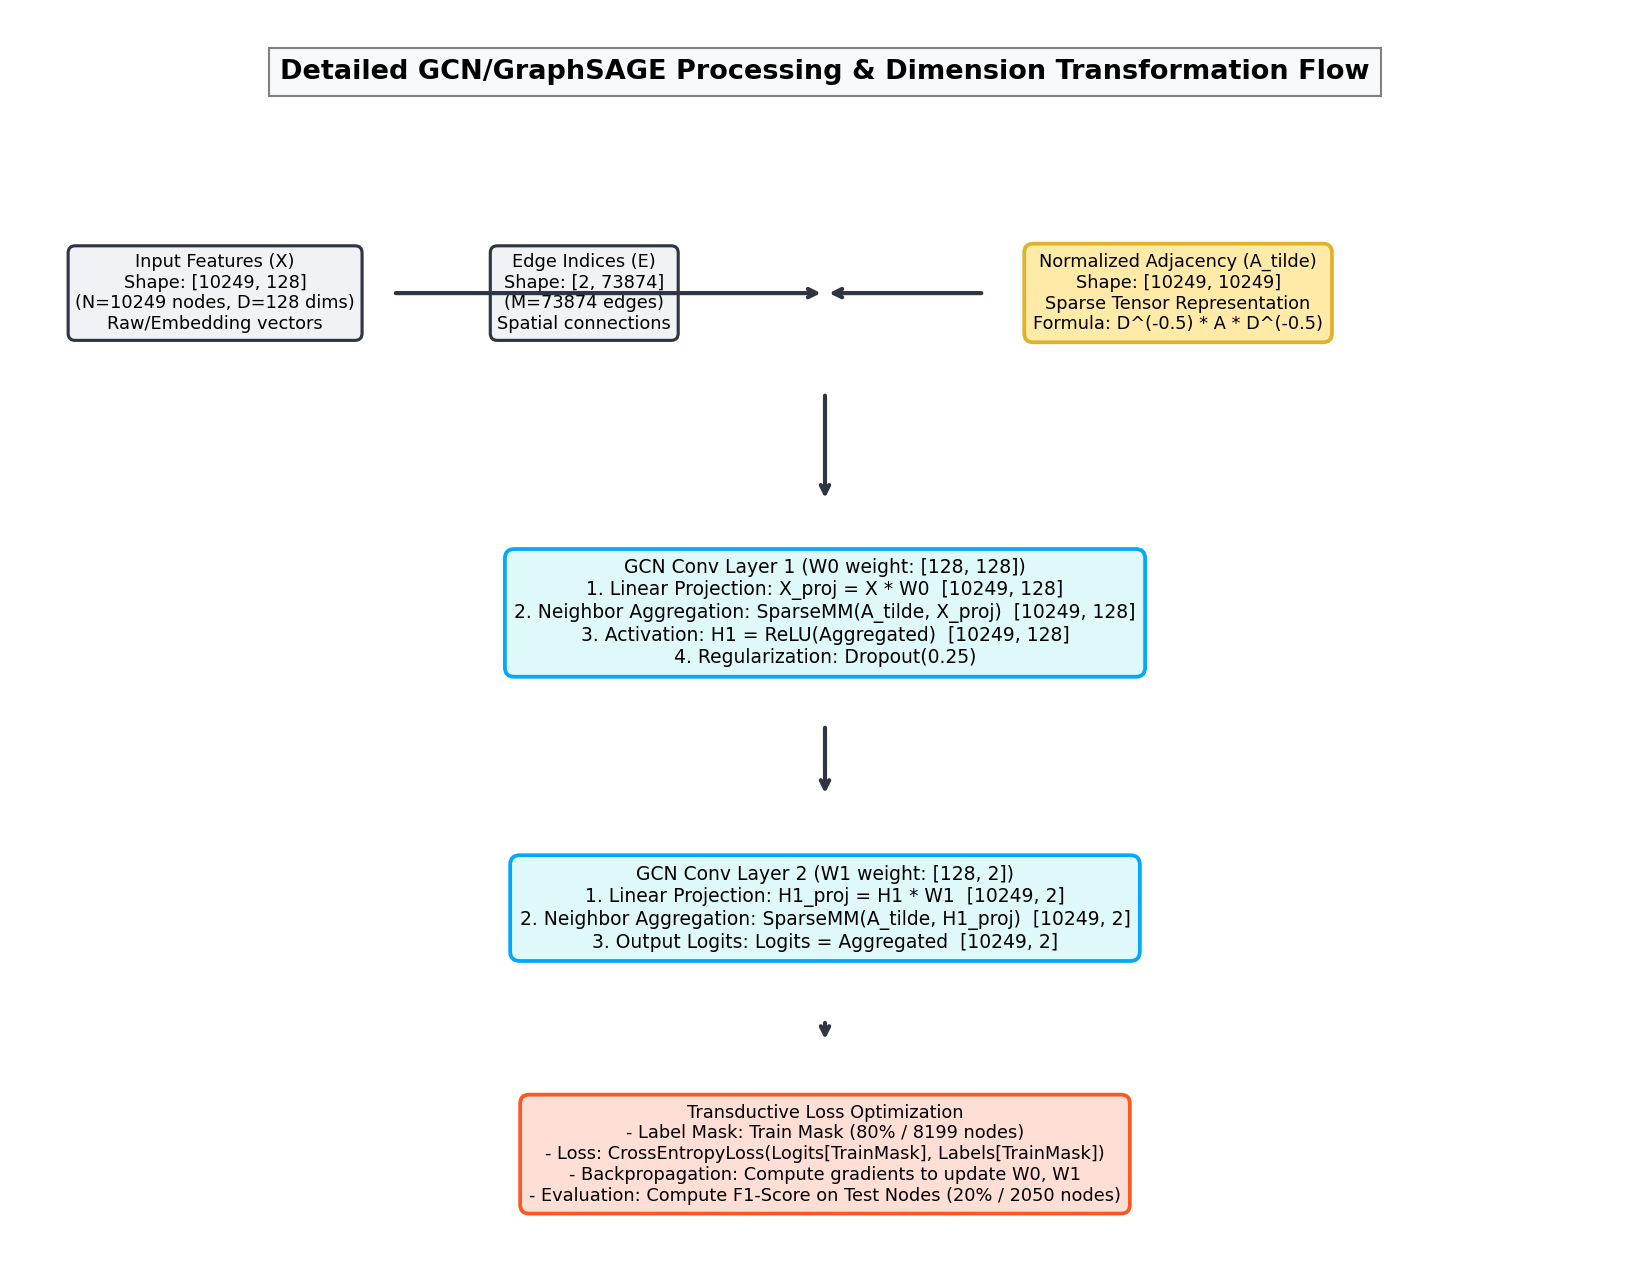
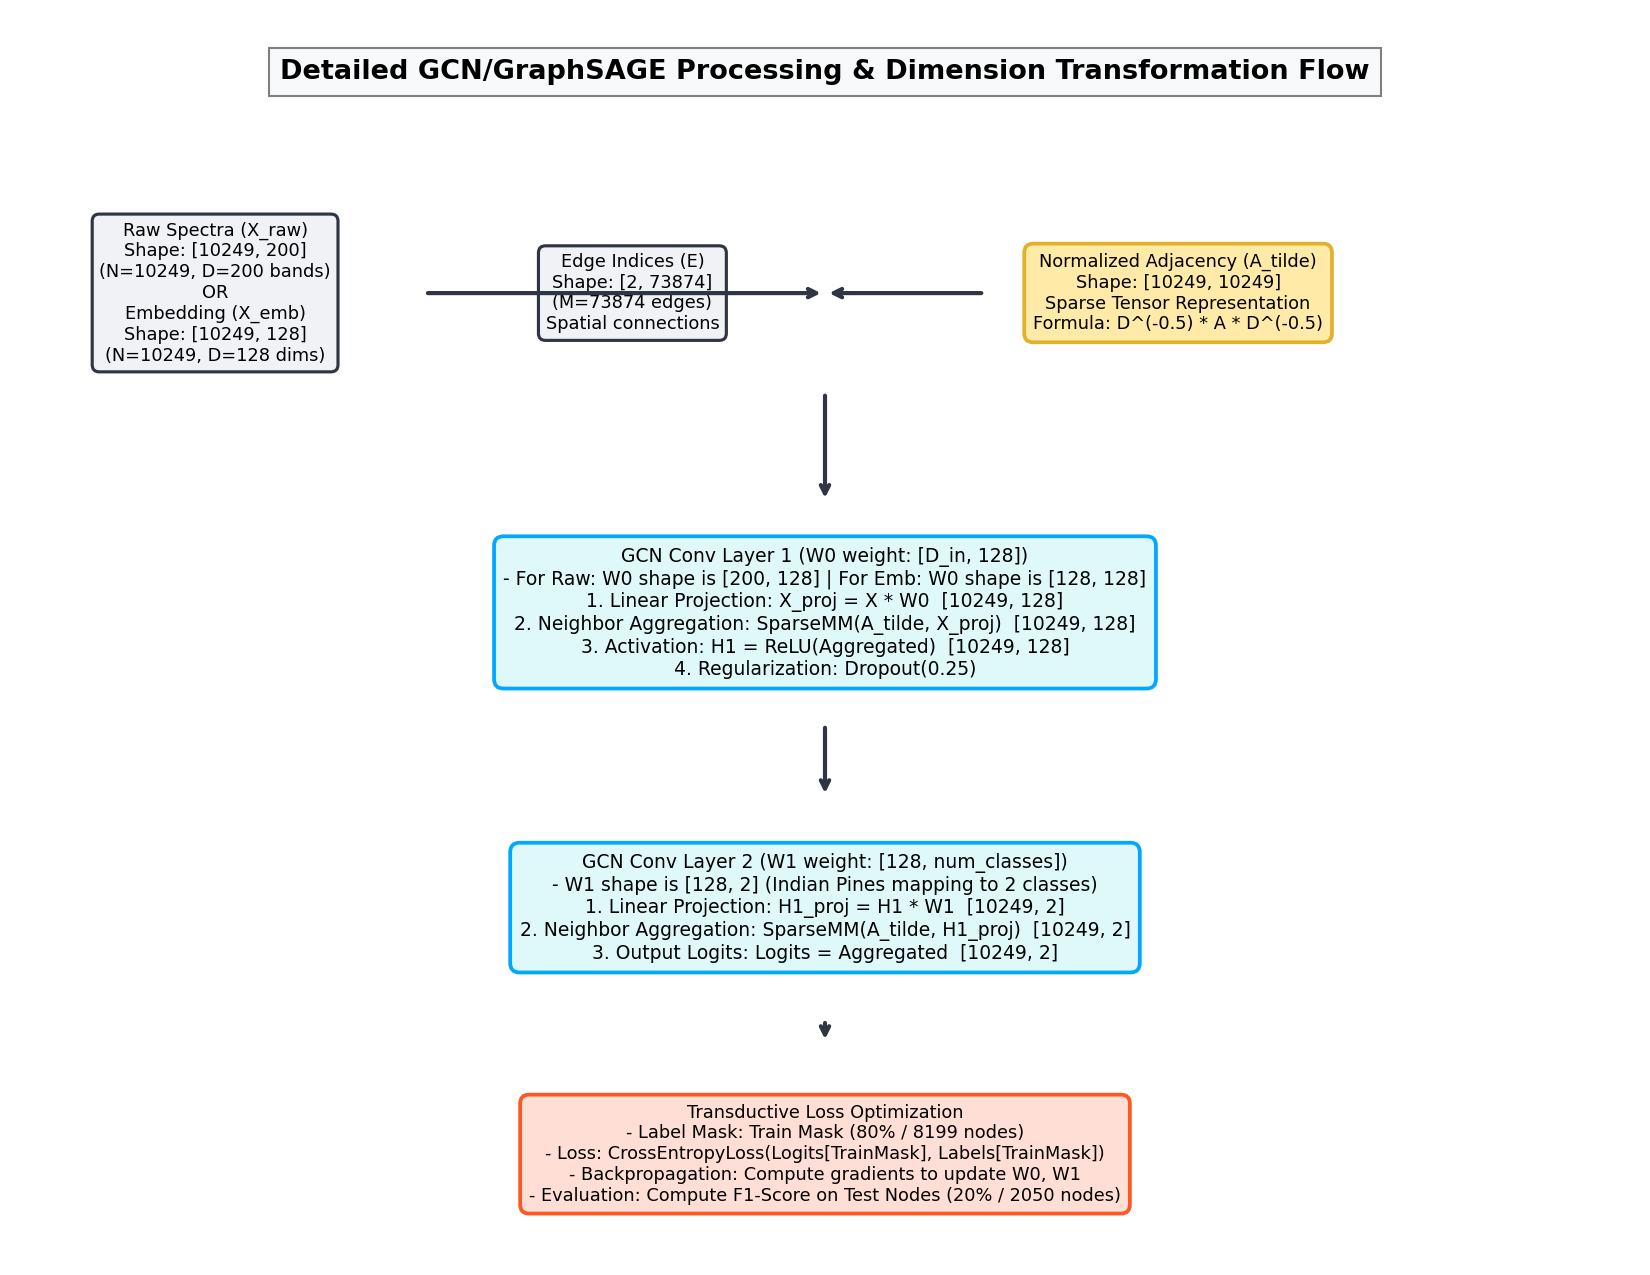
docs: add comparative Raw vs Embedding GNN flows and Node (58, 58) spectral-embedding physical source mapping details

diff --git a/reports/zeroshot_gnn_generalization_analysis.md b/reports/zeroshot_gnn_generalization_analysis.md
@@ -123,25 +123,51 @@ def get_gcn_norm_adj(edges_src, edges_dst, num_nodes, device="cuda"):
 초분광 픽셀의 물리적 배치 특성에 근거하여 valid 픽셀을 노드($V$)로 지정하고 8-이웃 관계를 에지($E$)로 연결한 예시입니다 (Indian Pines의 $15 \times 15$ 서브패치 예시).
 
 ![Spatial Graph Nodes](../images/spatial_graph_nodes_visualization.png)
-* **설명**: 2차원 공간 격자 위에 지표 분류 정보(식생 및 도심 지물)를 띤 픽셀(노드)들이 배치되어 있으며, 인접한 8개의 이웃 노드들이 회색 선(에지)으로 치밀하게 엮여 그래프 신호 공간을 형성하고 있음을 시사합니다.
+* **설명**: 2차원 공간 격자 위에 지표 분류 정보(식생 및 도심 지물)를 띤 픽셀(노드)들이 배치되어 있으며, 인접한 8개의 이웃 노드들이 회색 선(에지)으로 치밀하게 엮여 그래프 신호 공간을 형성하고 있음을 시사합니다. 노란색으로 강조된 노드는 후술할 분석 대상인 (58, 58) 픽셀 노드입니다.
+
+#### 2.3.1 노드 물리적 스펙트럼 및 기초 모델 임베딩 근원 분석 (Node Source Analysis)
+그래프 노드가 실제로 어떠한 분광 특징 값과 임베딩 벡터로 채워지는지 규명하기 위하여, Indian Pines의 특정 식생 노드(좌표: 58, 58 | 지표 클래스: Soybean-no till)를 발췌하여 물리적 반사율 곡선과 Hyperfocus v71 임베딩 벡터를 매핑 분석하였습니다.
+
+![Node Source Analysis](../images/node_spectral_embedding_source.png)
+
+* **패널 A (Grid Node Location)**: 
+  격자 내 (58, 58) 위치에 존재하는 노란색 타겟 노드의 위치와 주변 8-이웃 관계를 나타냅니다.
+* **패널 B (Raw Spectral Signature - 원시 스펙트럼)**:
+  타겟 노드가 가진 AVIRIS 센서의 200개 파장대역 반사율 신호(Digital Number)입니다. 식생(Vegetation) 클래스 특유의 엽록소 반사율 특징이 그대로 관측됩니다.
+  * **식생 적색 경계(Red Edge)**: 약 700nm~800nm 부근에서 반사율이 가파르게 상승하여 5,000 수준을 초과하는 물리적 거동을 보여줍니다.
+  * **수분 흡수선(Water Absorption Band)**: 대기 중 수분 흡수로 신호가 0에 가깝게 수축하는 파장 대역(약 1400nm 및 1900nm 부근)에서 뚜렷한 흡수 계곡이 나타납니다.
+* **패널 C (Hyperfocus v71 Embedding - 기초 모델 임베딩)**:
+  패널 B의 200차원 Z-score 정규화 스펙트럼을 Hyperfocus v71 인코더에 통과시켜 도출한 **128차원 잠재 특징 벡터**입니다.
+  * **기초 모델의 표현력**: 기초 모델은 반사율 곡선의 비선형적 형상을 128개의 밀집(Dense) 차원에 효율적으로 보존하고 대기 왜곡이나 센서 노이즈 성분을 원천 필터링합니다. 이 128차원 벡터가 GNN 모델의 노드 피처($X_{emb}$)로 직접 입력되어 이웃 노드로 메시지가 전파됩니다.
 
 ### 2.4 상세 아키텍처 흐름 및 텐서 형태 변환 (Detailed Tensor Flow)
-GNN 모델 내부에서 레이어를 거치며 텐서의 차원 형태(Shape)가 물리적으로 어떻게 수축/투영되는지에 대한 흐름도입니다 (Indian Pines 데이터셋 $N=10,249$ 기준).
+GNN 모델 내부에서 레이어를 거치며 텐서의 차원 형태(Shape)가 물리적으로 어떻게 수축/투영되는지 **원시 스펙트럼(Raw)**과 **기초 모델 임베딩(Embedding)** 입력을 상호 비교 대조하여 나타냅니다 (Indian Pines 데이터셋 $N=10,249$ 기준).
 
 ![GNN Detailed Flow](../images/gnn_detailed_flow.png)
 
-* **입력 텐서**:
-  - 노드 피처 행렬 $X \in \mathbb{R}^{10249 \times 128}$ (Hyperfocus v71 임베딩 기준 128차원)
-  - 인접 에지 연결 구조 $E \in \mathbb{R}^{2 \times 73874}$
-  - 정규화된 희소 인접 행렬 $\tilde{A}_{norm} \in \mathbb{R}^{10249 \times 10249}$ (Sparse COO format)
-* **Layer 1 연산**:
-  - 가중치 행렬 $W^{(0)} \in \mathbb{R}^{128 \times 128}$ 과 피처 행렬의 행렬 곱 수행 $\to X W^{(0)} \in \mathbb{R}^{10249 \times 128}$
-  - 희소 행렬 곱(SparseMM)을 통한 이웃 노드 피처 평균 및 전파 $\to \tilde{A}_{norm} (X W^{(0)}) \in \mathbb{R}^{10249 \times 128}$
-  - ReLU 활성화 함수 및 Dropout(0.25) 규제 적용 $\to H^{(1)} \in \mathbb{R}^{10249 \times 128}$
-* **Layer 2 연산**:
-  - 가중치 행렬 $W^{(1)} \in \mathbb{R}^{128 \times 2}$ (Indian Pines의 2개 지표 클래스로 차원 축소 투영)
-  - 희소 행렬 곱(SparseMM) 연산 $\to \tilde{A}_{norm} (H^{(1)} W^{(1)}) \in \mathbb{R}^{10249 \times 2}$
-  - 최종 2차원 클래스 Logit 행렬 도출 $\to Logits \in \mathbb{R}^{10249 \times 2}$
+#### 2.4.1 원시 스펙트럼 입력 vs 임베딩 벡터 입력의 차원 비교 분석
+
+1. **입력 텐서 차원 ($X$)**
+   * **Raw Spectra Input**: $X_{raw} \in \mathbb{R}^{10249 \times 200}$ (200개 밴드 차원 입력)
+   * **Embedding Vector Input**: $X_{emb} \in \mathbb{R}^{10249 \times 128}$ (Hyperfocus v71 인코더의 128차원 임베딩 입력)
+   * **공간 연결 구조**: 두 케이스 모두 동일한 8-이웃 에지 인덱스 $E \in \mathbb{R}^{2 \times 73874}$ 및 희소 정규화 인접 행렬 $\tilde{A}_{norm} \in \mathbb{R}^{10249 \times 10249}$를 공유합니다.
+
+2. **레이어 1 연산 (GCN Conv Layer 1)**
+   * **Raw Spectra Input**:
+     - 가중치 파라미터: $W^{(0)} \in \mathbb{R}^{200 \times 128}$ (200차원을 128차원으로 투영)
+     - 연산식: $H^{(1)} = \text{ReLU}(\tilde{A}_{norm} (X_{raw} W^{(0)}))$ $\to H^{(1)} \in \mathbb{R}^{10249 \times 128}$
+   * **Embedding Vector Input**:
+     - 가중치 파라미터: $W^{(0)} \in \mathbb{R}^{128 \times 128}$ (128차원에서 128차원으로 선형 변환 및 정규화)
+     - 연산식: $H^{(1)} = \text{ReLU}(\tilde{A}_{norm} (X_{emb} W^{(0)}))$ $\to H^{(1)} \in \mathbb{R}^{10249 \times 128}$
+
+3. **레이어 2 연산 (GCN Conv Layer 2)**
+   * 두 케이스 모두 동일하게 $128$차원의 은닉 특징 $H^{(1)}$을 지표 클래스 수에 맞게 $2$차원으로 투영합니다.
+   - 가중치 파라미터: $W^{(1)} \in \mathbb{R}^{128 \times 2}$
+   - 연산식: $Logits = \tilde{A}_{norm} (H^{(1)} W^{(1)})$ $\to Logits \in \mathbb{R}^{10249 \times 2}$
+
+#### GCN vs GraphSAGE 차원 제어
+* **GCN**: 노드 피처 투영 후 희소 행렬 곱을 수행하여 형태를 $N \times D$로 균일하게 보존합니다.
+* **GraphSAGE**: 자신의 피처와 이웃 노드의 평균 피처를 Concat하므로 결합 차원이 2배로 늘어나며, 레이어 1 투영 시 $[N, 2 \times D_{in}] \times [2 \times D_{in}, D_{out}]$ 행렬 곱을 통해 공간 메시지 전파와 자기 특징 보존을 병렬로 최적화합니다.
 
 ### 2.5 정량적 성능 결과 (F1-Scores)
 아래 표는 원시 피처와 임베딩 피처를 각각 GNN 노드 피처로 입력했을 때의 성능 결과입니다.